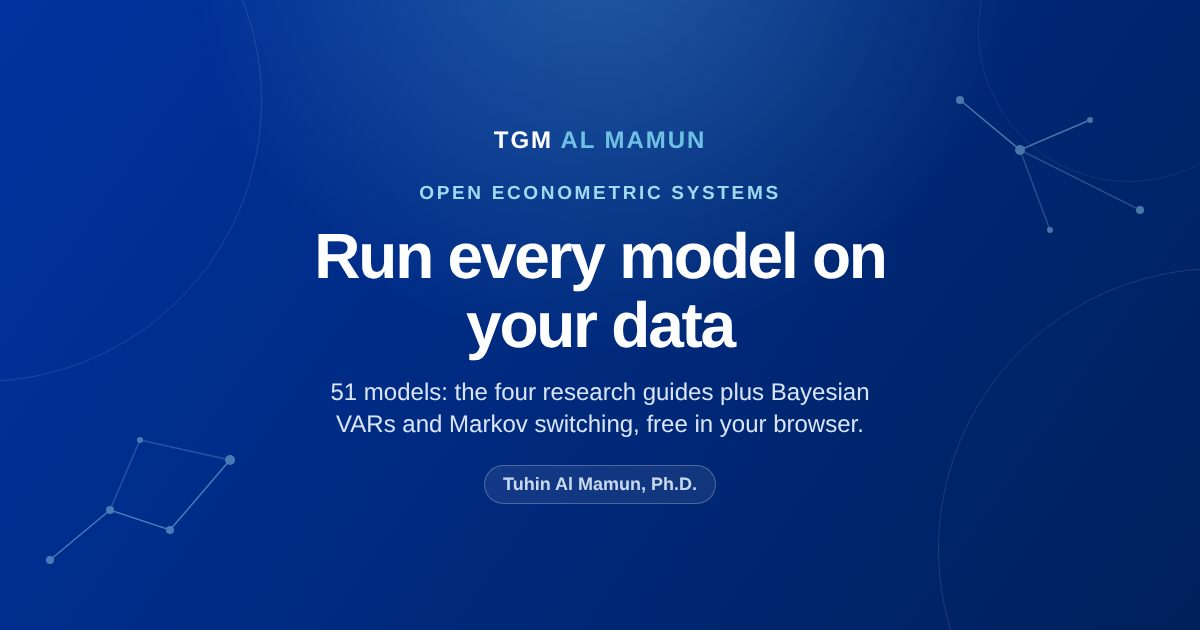
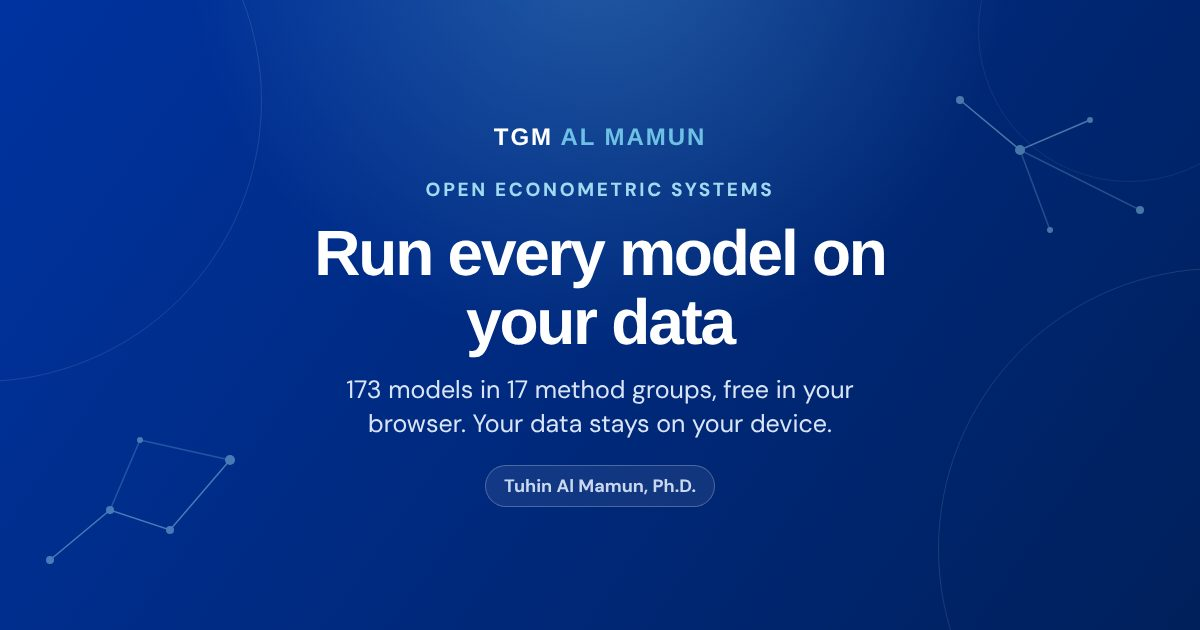
Data Cleaning Lab: link preview card, title and description matching the site; refresh OES card text
Claude-Session: https://claude.ai/code/session_013F7bmw4i6eMTaAmpwv1aGQ

diff --git a/oes/data-cleaning.html b/oes/data-cleaning.html
@@ -4,12 +4,14 @@
 <meta charset="utf-8">
 <meta name="viewport" content="width=device-width,initial-scale=1">
 <meta name="theme-color" content="#0033A0">
-<meta name="description" content="Clean, inspect and prepare panel and time-series datasets for econometric analysis in your browser with OES Data Cleaning Lab."><meta property="og:type" content="website"><meta property="og:title" content="OES Data Cleaning Lab | Tuhin Al Mamun"><meta property="og:description" content="Browser-based data inspection, panel diagnostics and reproducible cleaning for econometric research."><meta property="og:url" content="https://tuhingm.github.io/almamun/oes/data-cleaning.html"><meta property="og:site_name" content="Open Econometric Systems">
+<meta name="description" content="Data Cleaning Lab: download data from the World Bank, ECB, Eurostat, OECD, BIS and IMF, clean it in your browser, then run 173 models in Open Econometric Systems."><meta property="og:type" content="website"><meta property="og:title" content="Data Cleaning Lab | Open Econometric Systems | Tuhin Al Mamun"><meta property="og:description" content="Data Cleaning Lab: download data from the World Bank, ECB, Eurostat, OECD, BIS and IMF, clean it in your browser, then run 173 models in Open Econometric Systems."><meta property="og:url" content="https://tuhingm.github.io/almamun/oes/data-cleaning.html"><meta property="og:site_name" content="Open Econometric Systems"><meta property="og:image" content="https://tuhingm.github.io/almamun/assets/og/oes/data-cleaning.jpg?v=4"><meta property="og:image:width" content="1200"><meta property="og:image:height" content="630"><meta name="twitter:card" content="summary_large_image">
+<meta property="og:image:type" content="image/jpeg"><meta property="og:image:alt" content="Preview card: Data Cleaning Lab | Open Econometric Systems | Tuhin Al Mamun">
+<meta name="twitter:title" content="Data Cleaning Lab | Open Econometric Systems | Tuhin Al Mamun"><meta name="twitter:description" content="Data Cleaning Lab: download data from the World Bank, ECB, Eurostat, OECD, BIS and IMF, clean it in your browser, then run 173 models in Open Econometric Systems."><meta name="twitter:image" content="https://tuhingm.github.io/almamun/assets/og/oes/data-cleaning.jpg?v=4"><meta name="twitter:image:alt" content="Preview card: Data Cleaning Lab | Open Econometric Systems | Tuhin Al Mamun">
 <meta name="robots" content="index, follow, max-image-preview:large, max-snippet:-1">
 <link rel="canonical" href="https://tuhingm.github.io/almamun/oes/data-cleaning.html">
 <meta property="og:locale" content="en_US">
 <meta name="author" content="Tuhin G. M. Al Mamun">
-<title>OES Data Cleaning Lab | Open Econometric Systems</title>
+<title>Data Cleaning Lab | Open Econometric Systems | Tuhin Al Mamun</title>
 <link rel="preconnect" href="https://fonts.googleapis.com">
 <link rel="preconnect" href="https://fonts.gstatic.com" crossorigin>
 <link href="https://fonts.googleapis.com/css2?family=DM+Sans:wght@400;500;600;700;800&family=Manrope:wght@400;500;600;700;800&display=swap" rel="stylesheet">

diff --git a/tools/make_og_images.py b/tools/make_og_images.py
@@ -19,8 +19,11 @@ cards += [
          sub="Test your data and follow the path to OLS, VAR, VECM, ARDL, NARDL or GMM. Real examples and Python code.",
          tags=["Unit-root tests", "Cointegration", "Model selection", "Python"]),
     dict(out="assets/og/oes/index.jpg", kicker="Open Econometric Systems", title="Run every model on your data",
-         sub="51 models: the four research guides plus Bayesian VARs and Markov switching, free in your browser.",
+         sub="173 models in 17 method groups, free in your browser. Your data stays on your device.",
          tags=["Time series", "Panel data", "Causal inference", "Machine learning"]),
+    dict(out="assets/og/oes/data-cleaning.jpg", kicker="Open Econometric Systems", title="Data Cleaning Lab",
+         sub="Download data from the World Bank, ECB, Eurostat, OECD, BIS and IMF, clean it, then run the models.",
+         tags=["World Bank", "ECB", "Eurostat", "OECD", "BIS", "IMF"]),
     dict(out="assets/og/teaching.jpg", kicker="Teaching portfolio", title="Courses & Learning Resources",
          sub="Six full course sites with lecture notes, coding exercises, problem sets and exams.",
          tags=["Econometrics", "Statistics", "Calculus", "Macroeconomics", "Finance", "Monetary"]),
